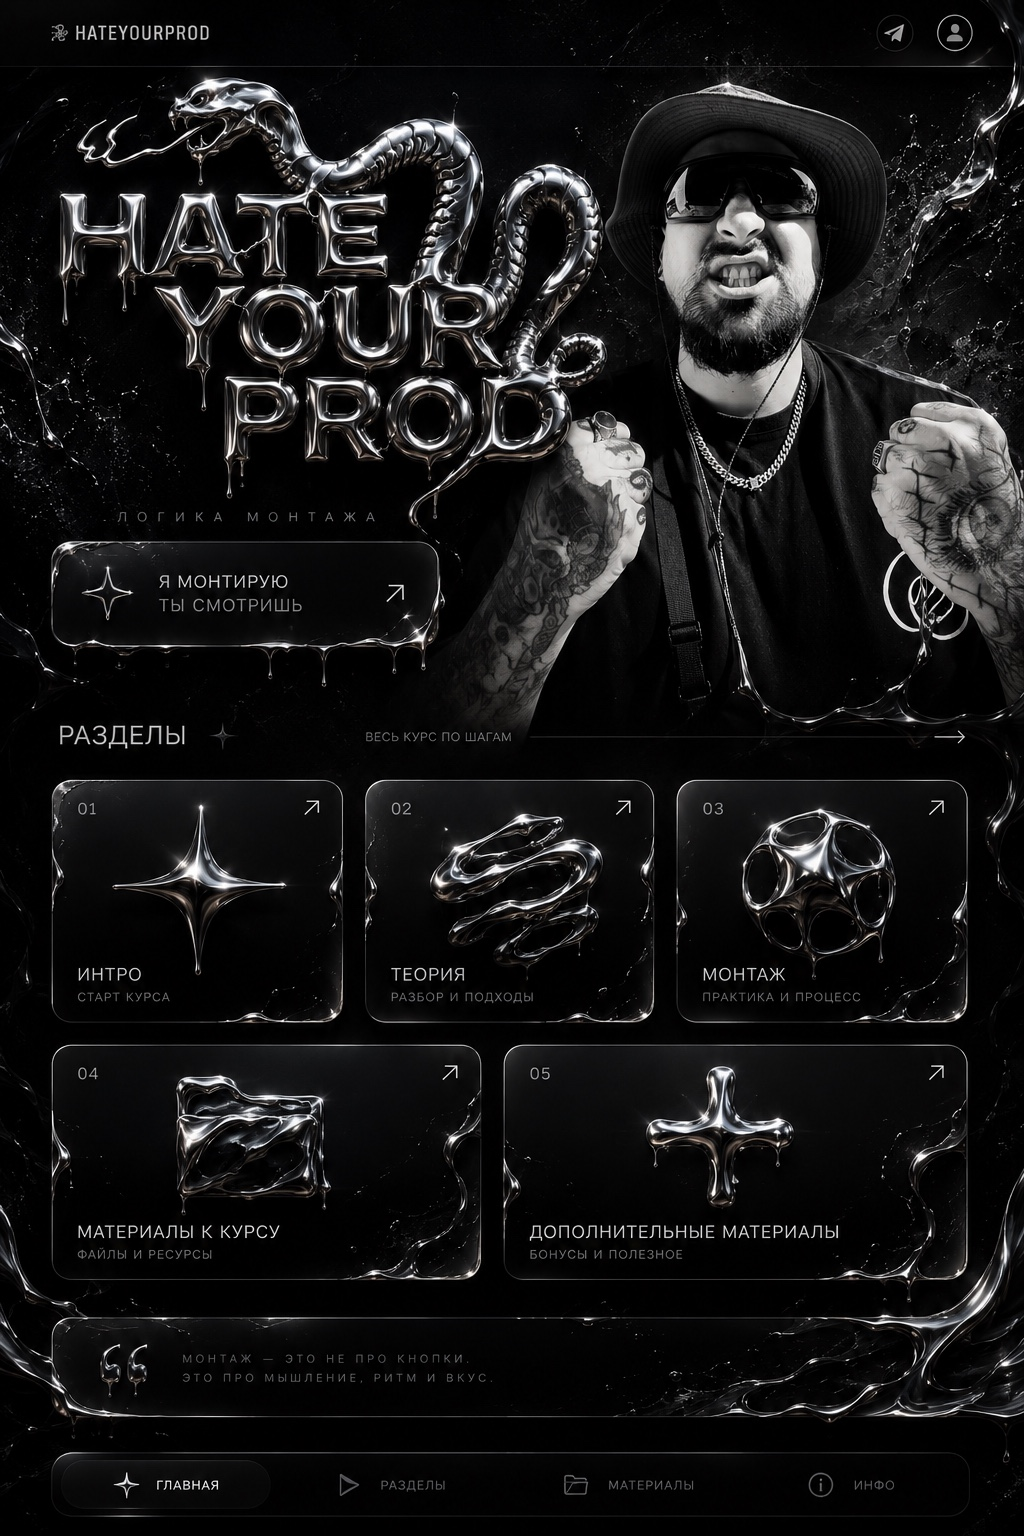
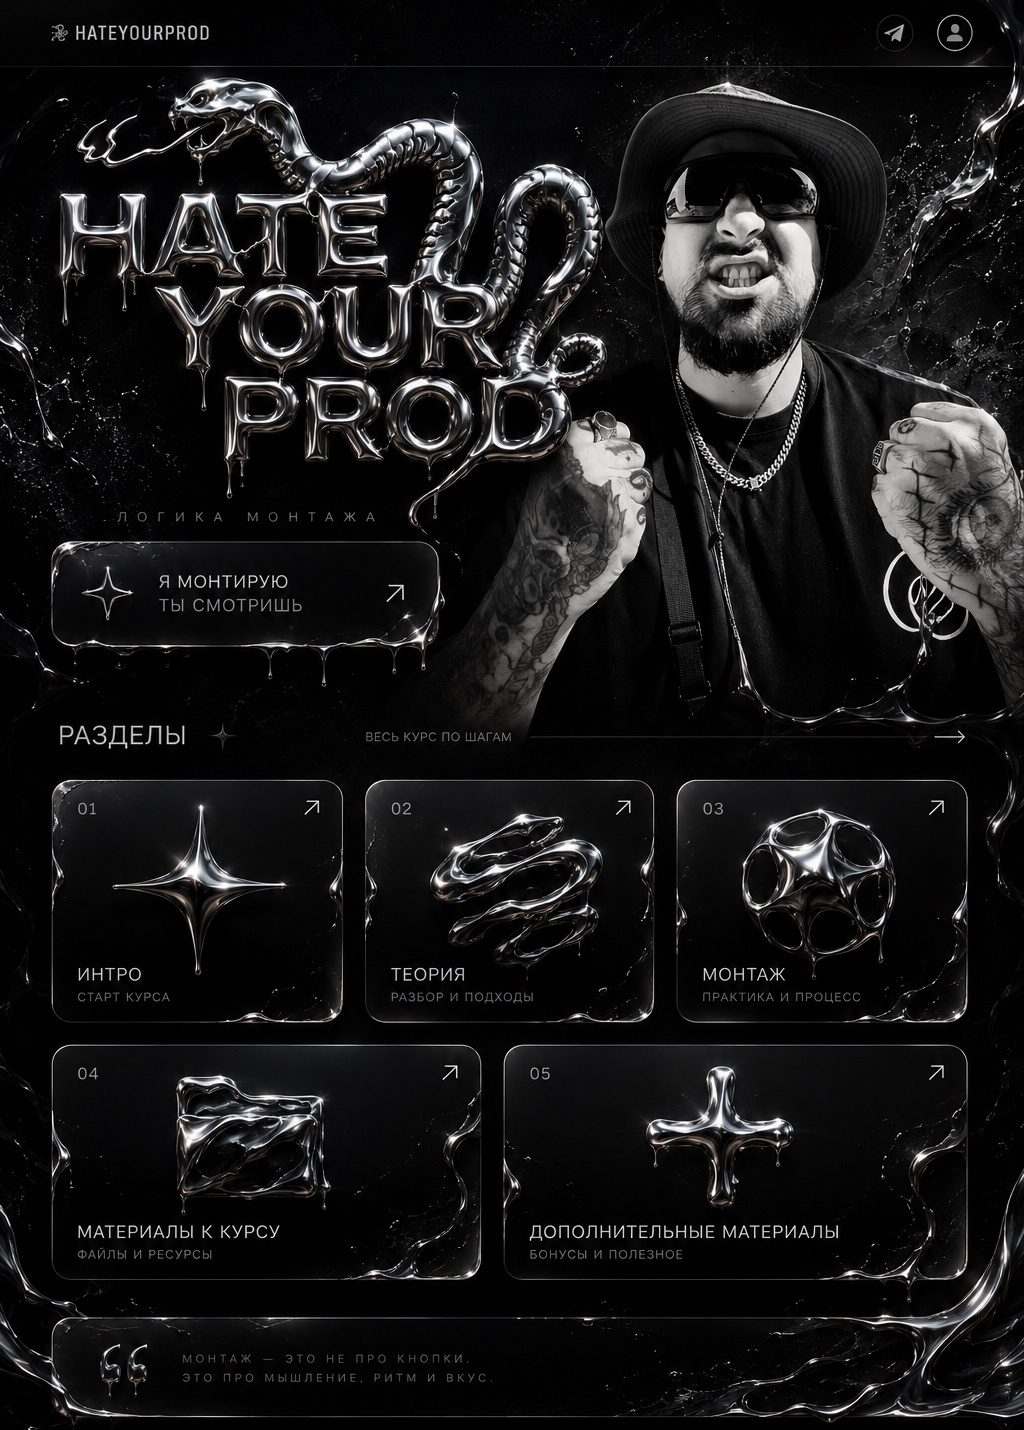
Add files via upload

diff --git a/styles.css b/styles.css
@@ -7,15 +7,15 @@ body{min-height:100vh}
 .hotspot{position:absolute;border:0;background:transparent;cursor:pointer;padding:0}
 .hotspot:focus-visible{outline:2px solid #fff;outline-offset:2px;border-radius:12px}
 .hs-cta{left:4.8%;top:35.5%;width:38%;height:8%}
-.hs-intro{left:4.5%;top:50.2%;width:29.2%;height:15.6%}
-.hs-theory{left:35.7%;top:50.2%;width:28.8%;height:15.6%}
-.hs-editing{left:66.4%;top:50.2%;width:29%;height:15.6%}
-.hs-materials{left:4.5%;top:67.2%;width:43.7%;height:15.3%}
-.hs-extra{left:50.1%;top:67.2%;width:45.3%;height:15.3%}
-.nav-home{left:4.8%;top:94%;width:21%;height:4.2%}
-.nav-sections{left:28.5%;top:94%;width:19%;height:4.2%}
-.nav-materials{left:50.5%;top:94%;width:22%;height:4.2%}
-.nav-info{left:75%;top:94%;width:20%;height:4.2%}
+.hs-intro{left:4.5%;top:53.92%;width:29.2%;height:16.76%}
+.hs-theory{left:35.7%;top:53.92%;width:28.8%;height:16.76%}
+.hs-editing{left:66.4%;top:53.92%;width:29%;height:16.76%}
+.hs-materials{left:4.5%;top:72.18%;width:43.7%;height:16.43%}
+.hs-extra{left:50.1%;top:72.18%;width:45.3%;height:16.43%}
+
+
+
+
 
 .app-screen{
   position:fixed;inset:0;z-index:80;display:none;overflow:auto;

diff --git a/app.js b/app.js
@@ -164,15 +164,6 @@ document.querySelectorAll("[data-section]").forEach(el => {
   el.addEventListener("click", () => openSection(el.dataset.section));
 });
 
-document.querySelectorAll("[data-action]").forEach(el => {
-  el.addEventListener("click", () => {
-    if (el.dataset.action === "sections") {
-      window.scrollTo({top: document.body.scrollHeight * 0.45, behavior:"smooth"});
-    } else {
-      window.scrollTo({top:0, behavior:"smooth"});
-    }
-  });
-});
 
 document.getElementById("backHome").addEventListener("click", () => {
   sectionScreen.classList.remove("show");

diff --git a/index.html b/index.html
@@ -19,11 +19,6 @@
       <button class="hotspot hs-editing" data-section="editing" aria-label="Монтаж"></button>
       <button class="hotspot hs-materials" data-section="materials" aria-label="Материалы к курсу"></button>
       <button class="hotspot hs-extra" data-section="extra" aria-label="Дополнительные материалы"></button>
-
-      <button class="hotspot nav-home" data-action="home" aria-label="Главная"></button>
-      <button class="hotspot nav-sections" data-action="sections" aria-label="Разделы"></button>
-      <button class="hotspot nav-materials" data-section="materials" aria-label="Материалы"></button>
-      <button class="hotspot nav-info" data-section="info" aria-label="Информация"></button>
     </div>
   </main>
 

diff --git a/README.md b/README.md
@@ -1,17 +1,15 @@
-# HATE YOUR PROD — курс с разделами и видео
+# HATE YOUR PROD — версия без нижнего меню
 
-Добавлено:
-- двухъярусная структура;
-- отдельные экраны разделов;
-- отдельные экраны уроков;
-- раздел Интро: 1 видео;
-- раздел Теория: 2 видео;
-- раздел Монтаж: 5 видео;
-- переходы «Предыдущий / Следующий».
+Изменено:
+- нижняя панель «Главная / Разделы / Материалы / Инфо» полностью удалена;
+- цитата остаётся финальным блоком главной страницы;
+- разделы и все видео продолжают работать;
+- экраны разделов и уроков не изменены.
 
-Для обновления GitHub замените:
+Для обновления замените в GitHub:
 - index.html
 - styles.css
 - app.js
+- папку assets
 
-Папку assets оставьте из этого архива.
+После Commit changes Vercel обновится автоматически.